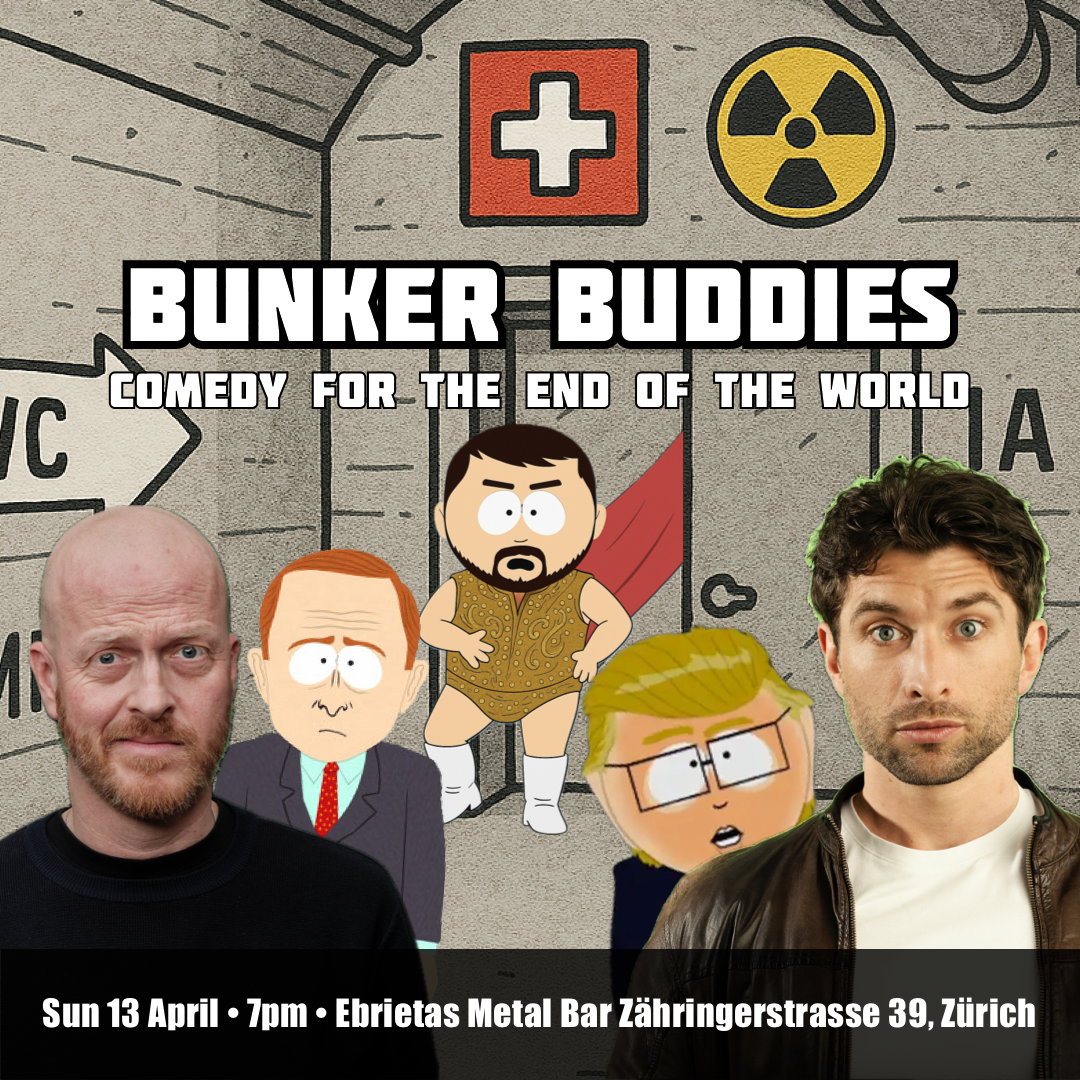
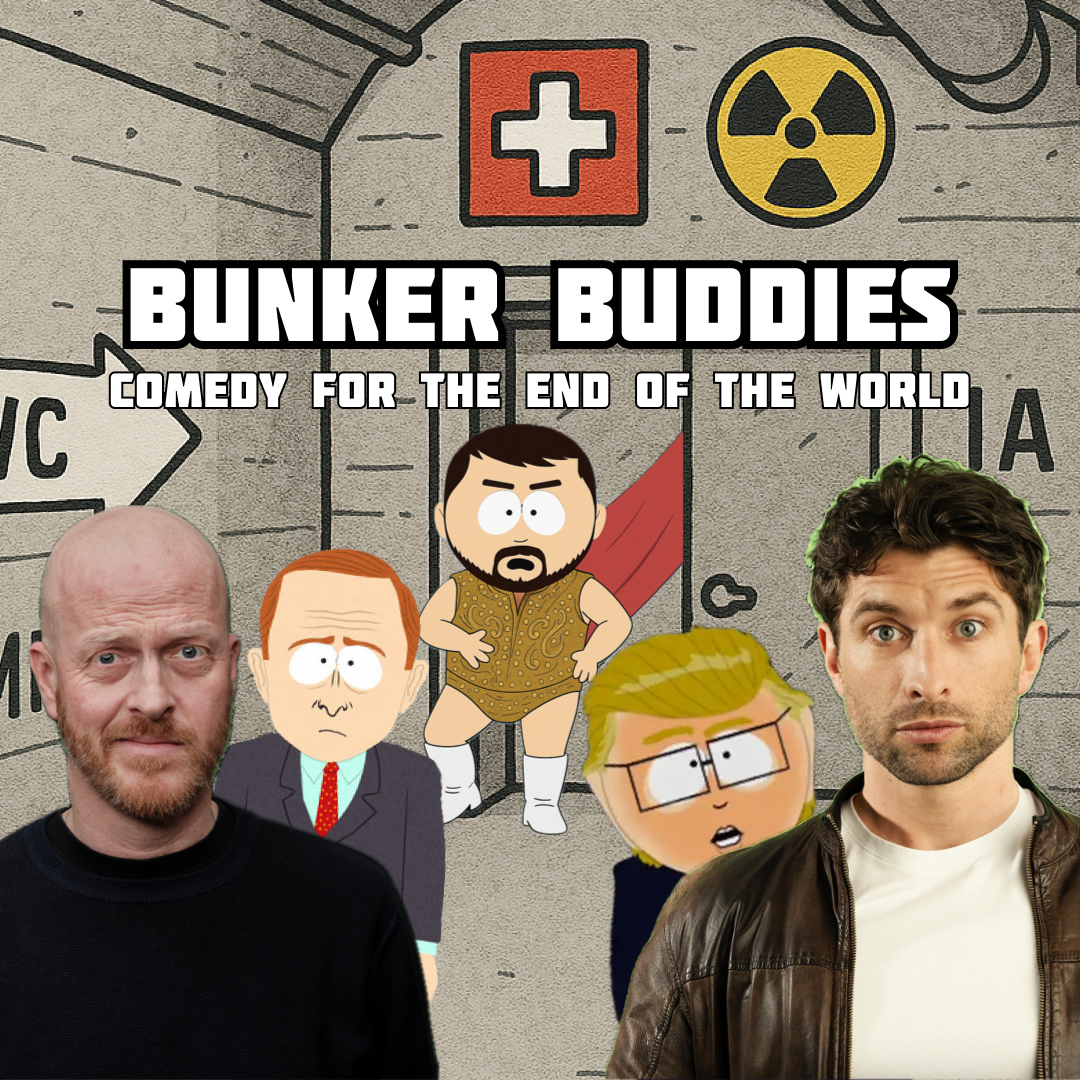
Refresh bunker buddies

Changed region(s): [[0.0306, 0.8556, 1.0, 1.0]]

diff --git a/_posts/2025-03-30-bunker_buddies_-_comedy_for_the_end_of_the_world.md b/_posts/2025-03-30-bunker_buddies_-_comedy_for_the_end_of_the_world.md
@@ -1,0 +1,36 @@
+---
+layout: post
+editable: "true"
+title: BUNKER BUDDIES - Comedy for the End of the World
+description: What happens when World War 3 kicks off and you're stuck in your
+  Swiss cellar with your weird neighbours?
+feature-img: /assets/img/uploads/bunker_buddies_facebook.png
+thumbnail: /assets/img/uploads/bunker_buddies_insta_post.png
+author: harryfucks
+excerpt_separator: <!--more-->
+permalink: /bunker-buddies/
+ticket_url: https://bit.ly/bunkerbuddys
+---
+**What happens when World War 3 kicks off and you're stuck in your Swiss cellar with your weird neighbours?**
+
+![Bunker Buddies - Comedy for the End of the World](/assets/img/uploads/bunker_buddies_eventfrog.png "Bunker Buddies")
+
+Welcome to Bunker Buddies – a comedy show staged deep in the actual dungeon of Ebrietas Metal Bar, where we simulate the “Oh sh!t, this is really happening!” vibes of nuclear war… with jokes!
+
+Your hosts are **[Chris Darwa](https://www.chrisdarwa.com/)** and **[Harry Fücks](https://harryf.ckscomedy.com/)**, two international stand-up comedians who’ve already performed together in shows like iLOLminati and Seasons Grievings. Every time they team up, things get unhinged – in the best way.
+
+This time, they’re joined by guest comedians to take you on a darkly hilarious ride through survival tips, neighbour politics, toilet paper rationing, and figuring out which one of you will be eaten first.
+
+**Expect:**
+
+High-energy, no-holds-barred stand-up
+
+Dark laughs in a metal bar basement (because where else would you hide from WW3?)
+
+A bit of immersive chaos (we might simulate the full bunker experience...)
+
+If the world ends, you’ll want to go out laughing.
+If it doesn’t – hey, you had a great night.
+
+**Doors open 7:00pm. Show starts 7:30pm.
+Tickets limited – don’t wait for the sirens.**
